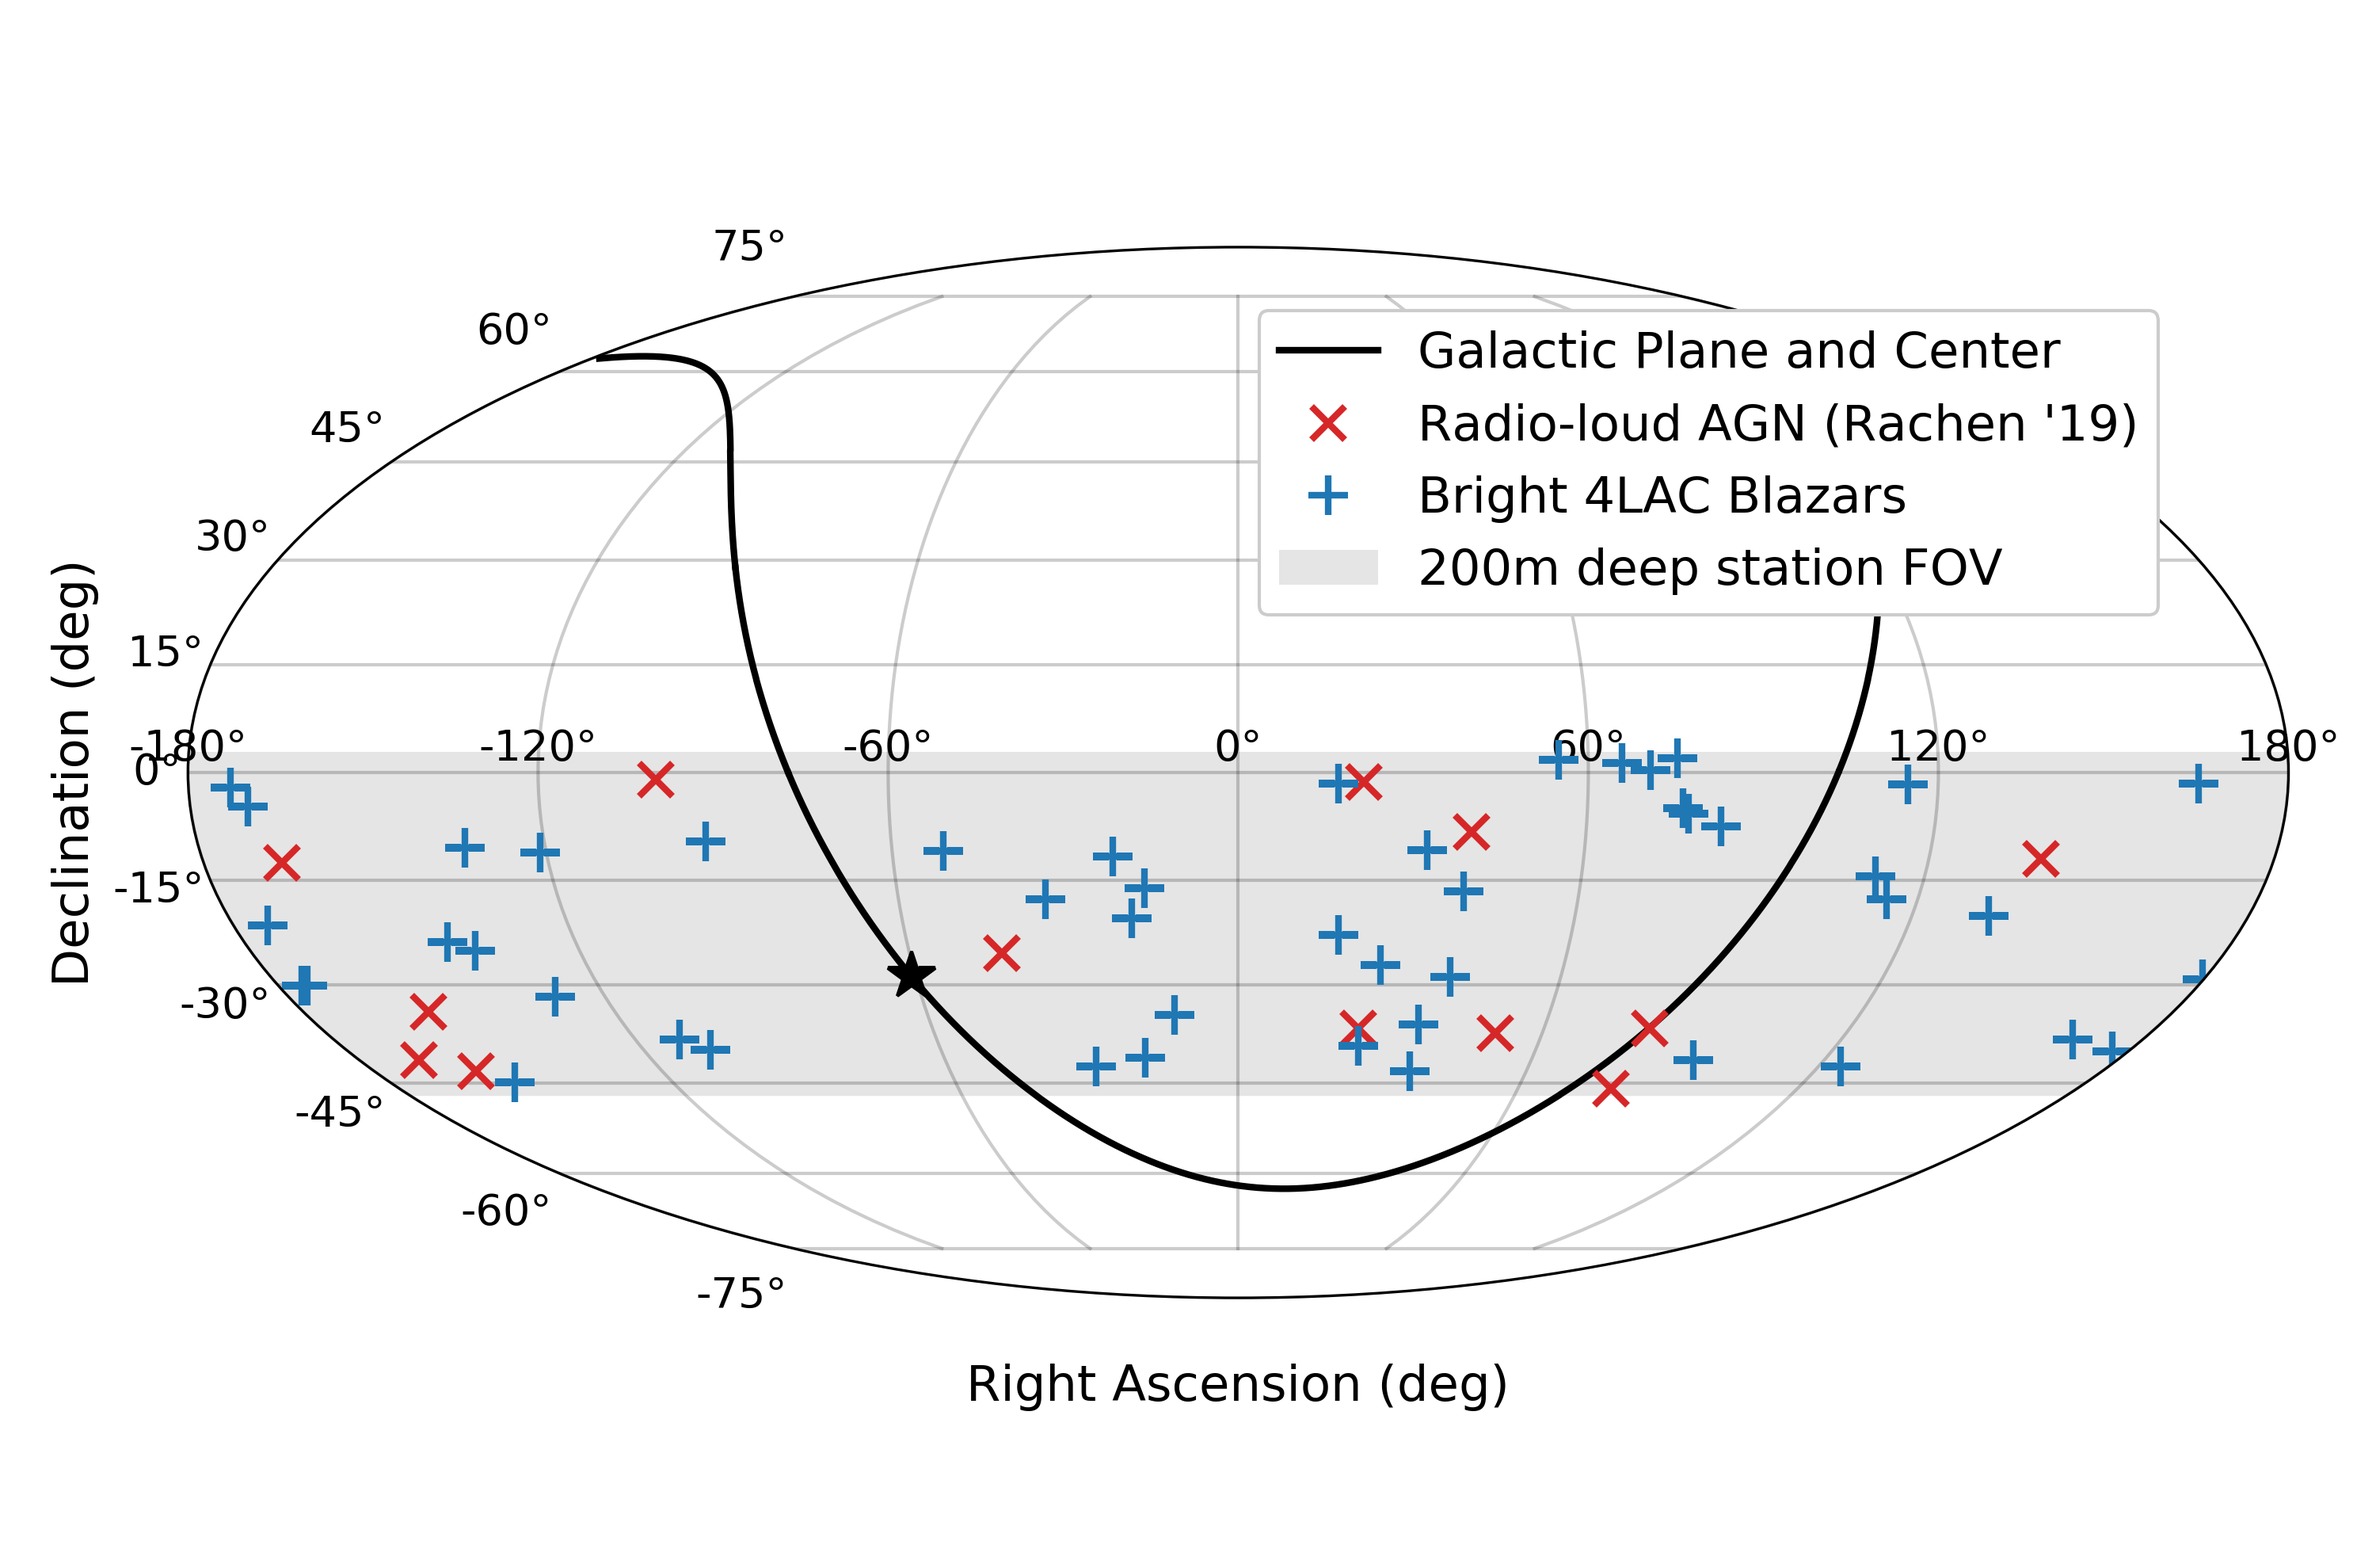
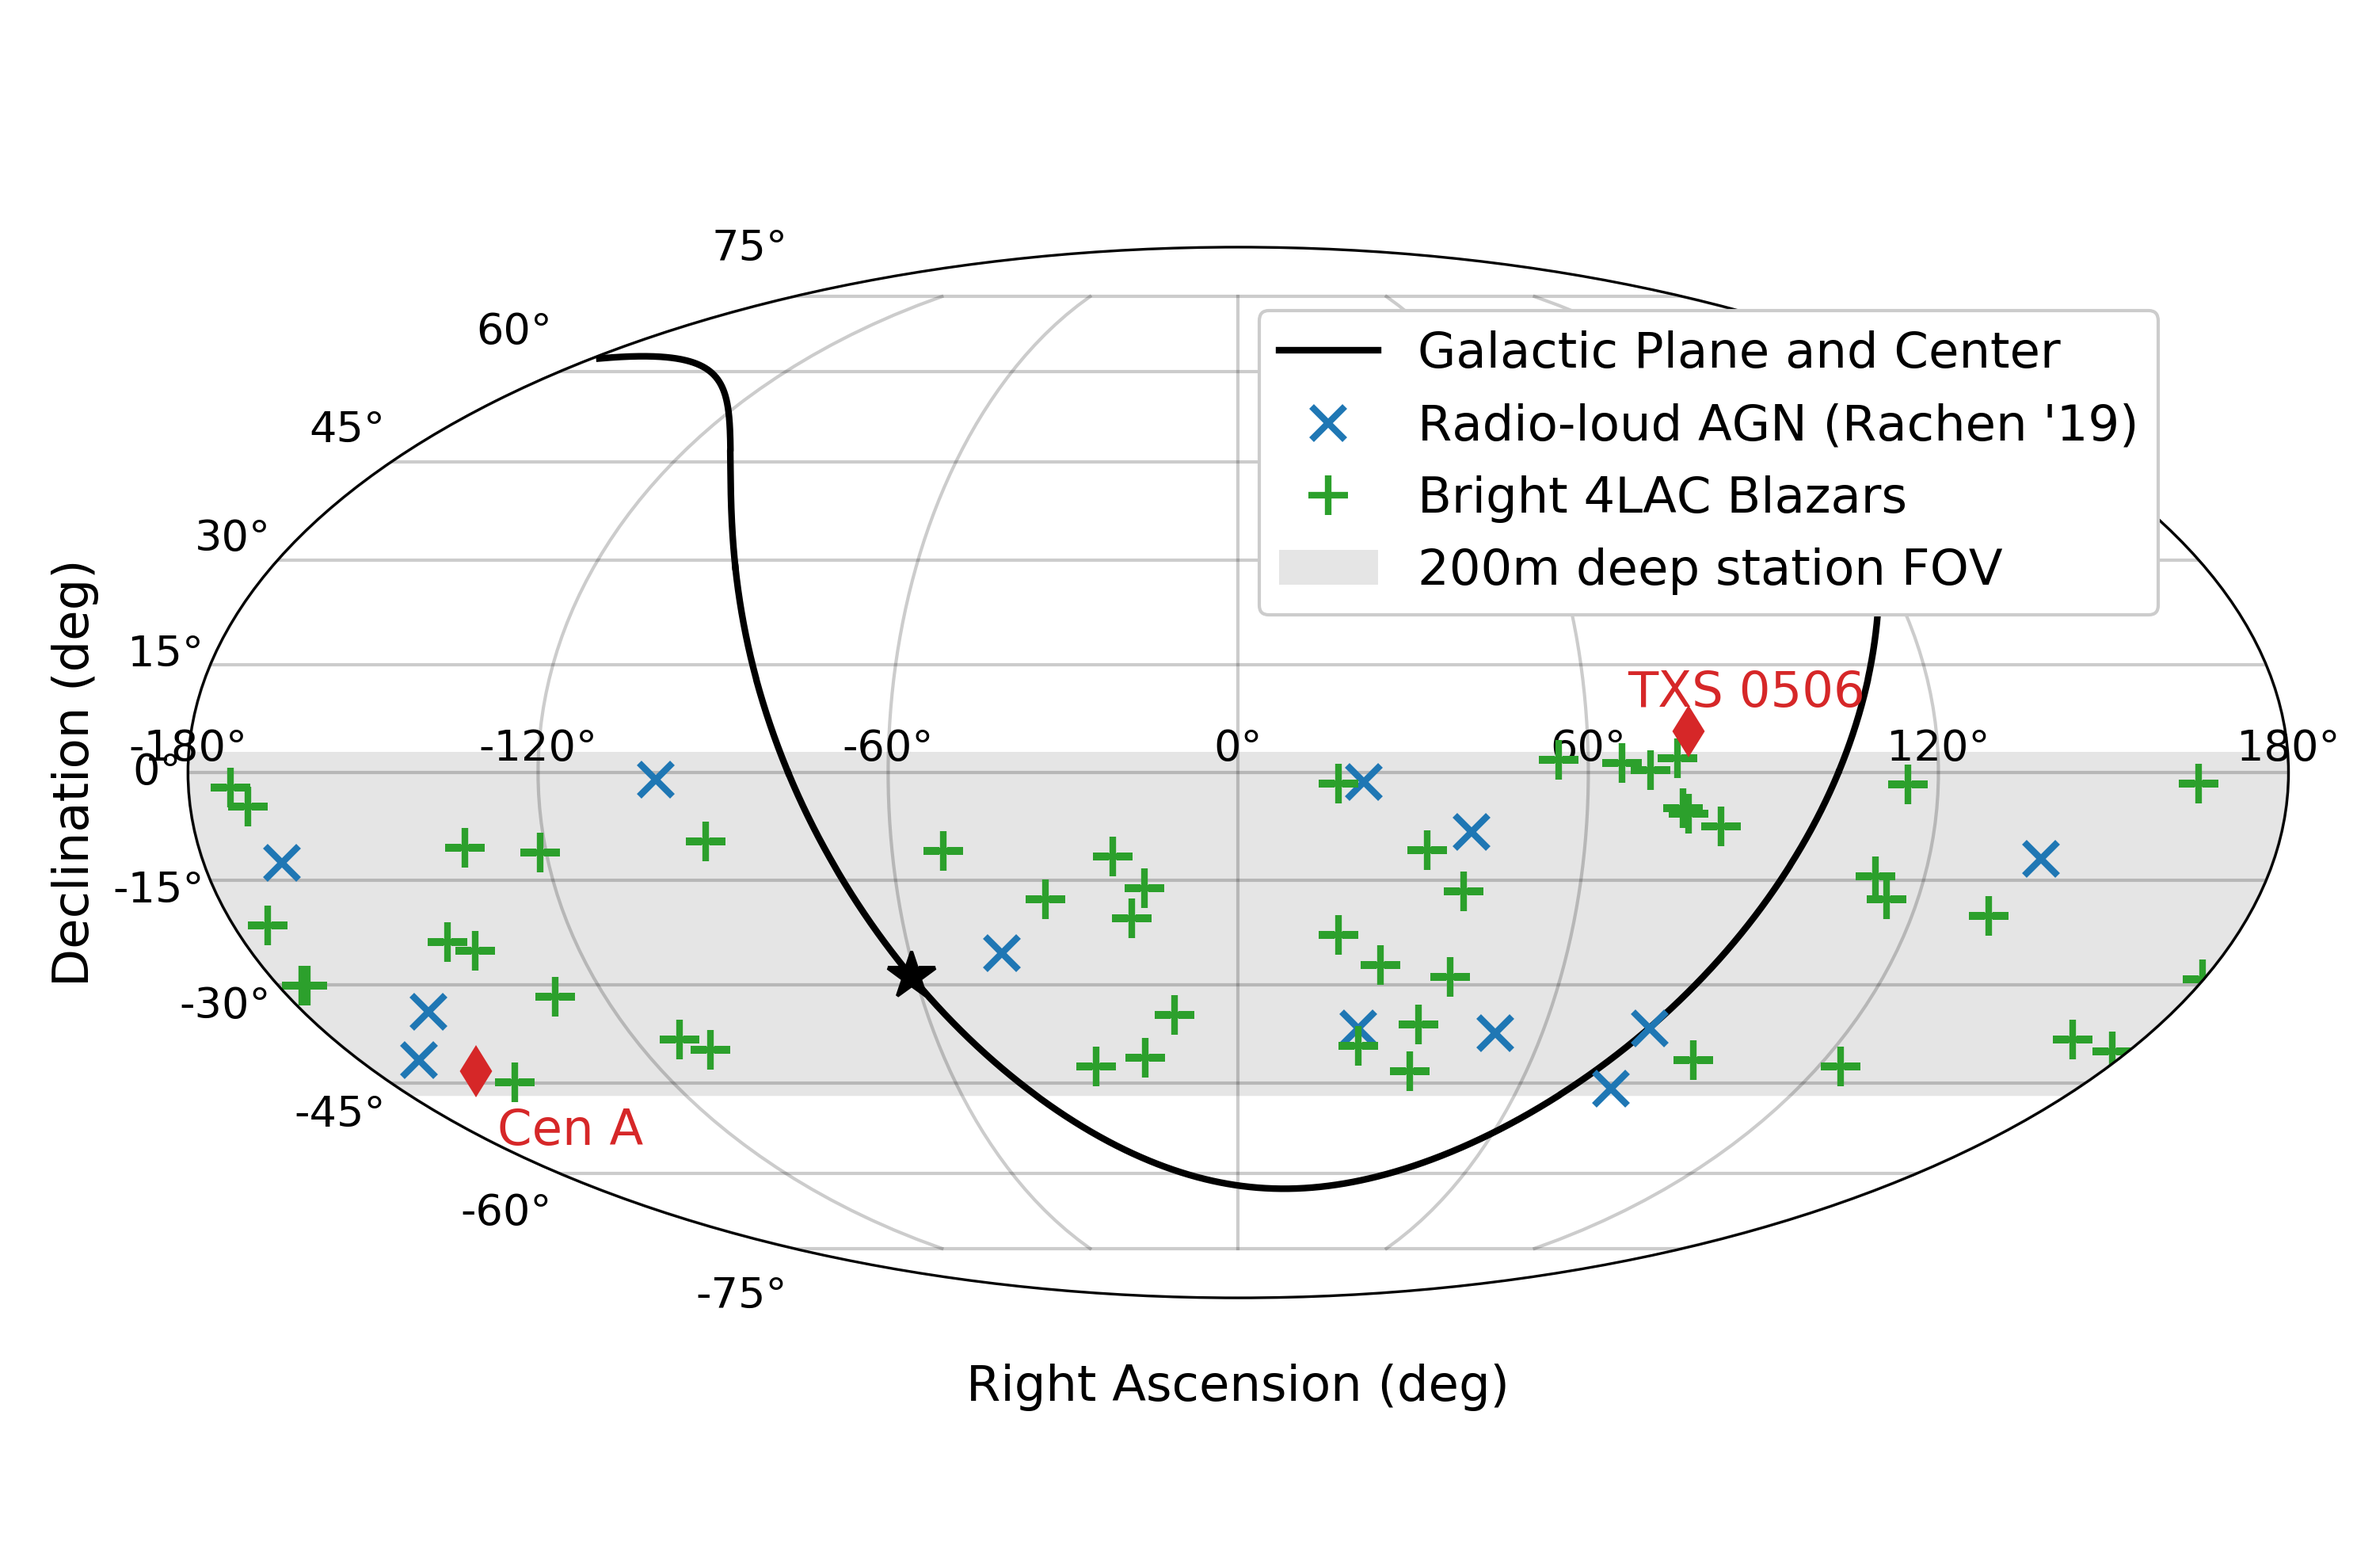
final tweaking

diff --git a/analysis/2021.02_review/sky_coverage/plot_fov_w_sources.py b/analysis/2021.02_review/sky_coverage/plot_fov_w_sources.py
@@ -55,6 +55,12 @@ c2 = SkyCoord(ra=ra_cena, dec=dec_cena, frame='icrs')
 cena_ra = c2.ra.wrap_at(180 * u.deg).radian
 cena_dec = c2.dec.radian
 
+ra_txs = 77.3582*u.degree
+dec_txs = 5.69314*u.degree
+c3 = SkyCoord(ra=ra_txs, dec=dec_txs, frame='icrs')
+txs_ra = c3.ra.wrap_at(180 * u.deg).radian
+txs_dec = c3.dec.radian
+
 
 def convertCoord(RA, Dec):
     ra = coord.Angle(RA*u.degree)
@@ -85,7 +91,6 @@ y2 = np.array([0.05,0.05,-0.82,-0.82,0.05])
 plt.fill(x,y2,label='200m deep station FOV', facecolor='grey',alpha=0.2)
 # plt.plot(ra_rad, dec_rad, '*',color='gold',markersize=20,mec='firebrick',label='Galactic Center')
 plt.plot(ra_rad, dec_rad, '*',color='black',markersize=15,mec='black')
-# ax.plot(cena_ra, cena_dec,'^',markersize=12,color='m',label='Centaurus A')
 plt.plot(gal_ra.radian[0:2970], -gal_dec.radian[0:2970],color='black',linewidth=2,label='Galactic Plane and Center',zorder=1)
 plt.plot(gal_ra.radian[2980:], -gal_dec.radian[2980:],color='black',linewidth=2,zorder=2)
 marker = itertools.cycle(('>', '+', '<', 'o', '*', 'X')) 
@@ -96,10 +101,10 @@ for index, source in UHECR.iterrows():
     ra_source, dec_source = convertCoord(source['RA'], source['DEC'])
     if(dec_source>0.05 or dec_source<-0.82): continue
     if num_points_plotted==0:
-        ax.plot(ra_source, dec_source,'x', color='C3', mew=2,markersize=10, label='Radio-loud AGN (Rachen \'19)')
+        ax.plot(ra_source, dec_source,'x', color='C0', mew=2,markersize=10, label='Radio-loud AGN (Rachen \'19)')
         num_points_plotted+=1
     else:
-        ax.plot(ra_source, dec_source,'kx',color='C3',mew=2,markersize=10)
+        ax.plot(ra_source, dec_source,'kx',color='C0',mew=2,markersize=10)
 
 lac_ra, lac_dec, source_class, flux, e_flux = get_lac()
 
@@ -126,7 +131,7 @@ for i in range(len(lac_ra)):
 				lac_plot_ra.append(this_ra)
 				lac_plot_dec.append(this_dec)
 
-ax.plot(lac_plot_ra,lac_plot_dec, 'C0+', mew=2, markersize=12, label='Bright 4LAC Blazars')
+ax.plot(lac_plot_ra,lac_plot_dec, 'C2+', mew=2, markersize=12, label='Bright 4LAC Blazars')
 
 
 legend = ax.legend()
@@ -139,6 +144,19 @@ ax.tick_params(direction='out', length=8, width=4, colors='k',
 ax.axes.get_xaxis().set_ticks([-np.pi/3, -2*np.pi/3, -np.pi,0,np.pi/3, 2*np.pi/3, np.pi])
 # plt.gca().set_aspect('0.9', adjustable='box')
 # plt.suptitle("Radio galaxies as UHECR sources \n Rachen & Eichmann",fontsize=20)
+
+# Cen A
+ax.plot(cena_ra, cena_dec,'d',markersize=10,color='C3')
+# Centaurus A∗,201.37,-43.02,300,4,FR-I
+ax.annotate(r'Cen A', xy=(cena_ra*1.135,1.28*cena_dec), xycoords='data',
+	size=15, color='C3')
+
+# TXS
+ax.plot(txs_ra, txs_dec,'d',markersize=10,color='C3')
+# Centaurus A∗,201.37,-43.02,300,4,FR-I
+ax.annotate(r'TXS 0506', xy=(txs_ra*0.87,1.60*txs_dec), xycoords='data',
+	size=15, color='C3')
+
 plt.tight_layout()
 plt.savefig("gen2_fov_w_uhecr_4lac.png", dpi=300)
 
